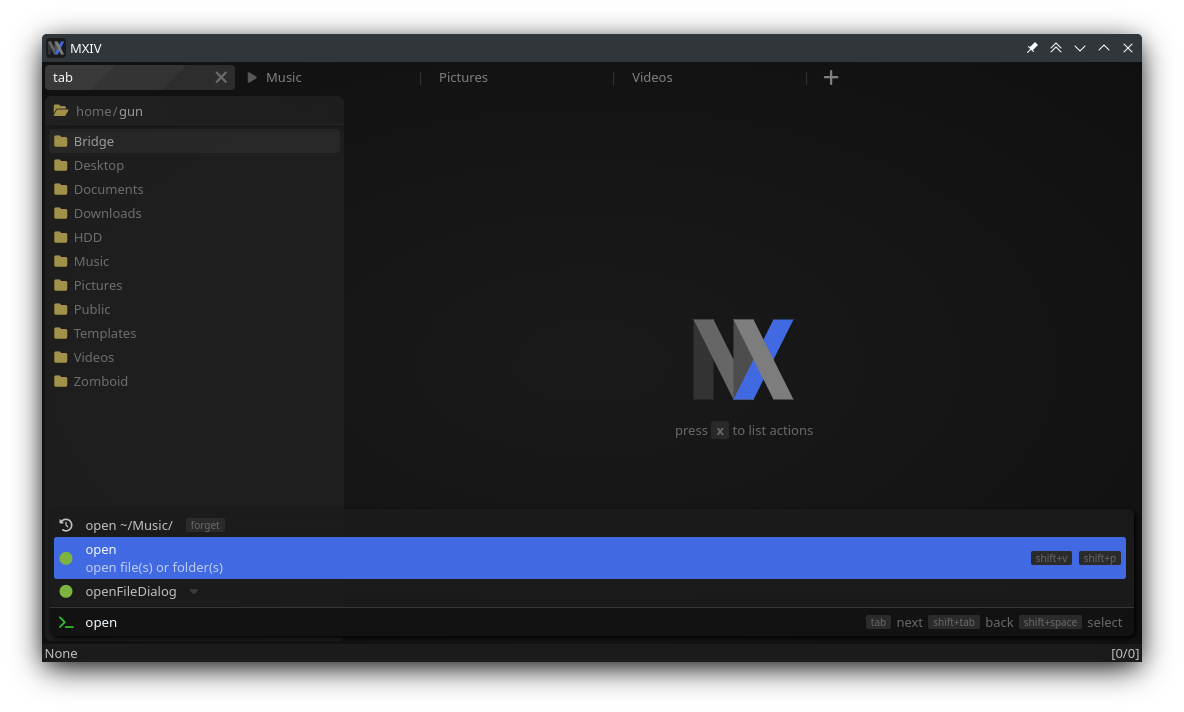
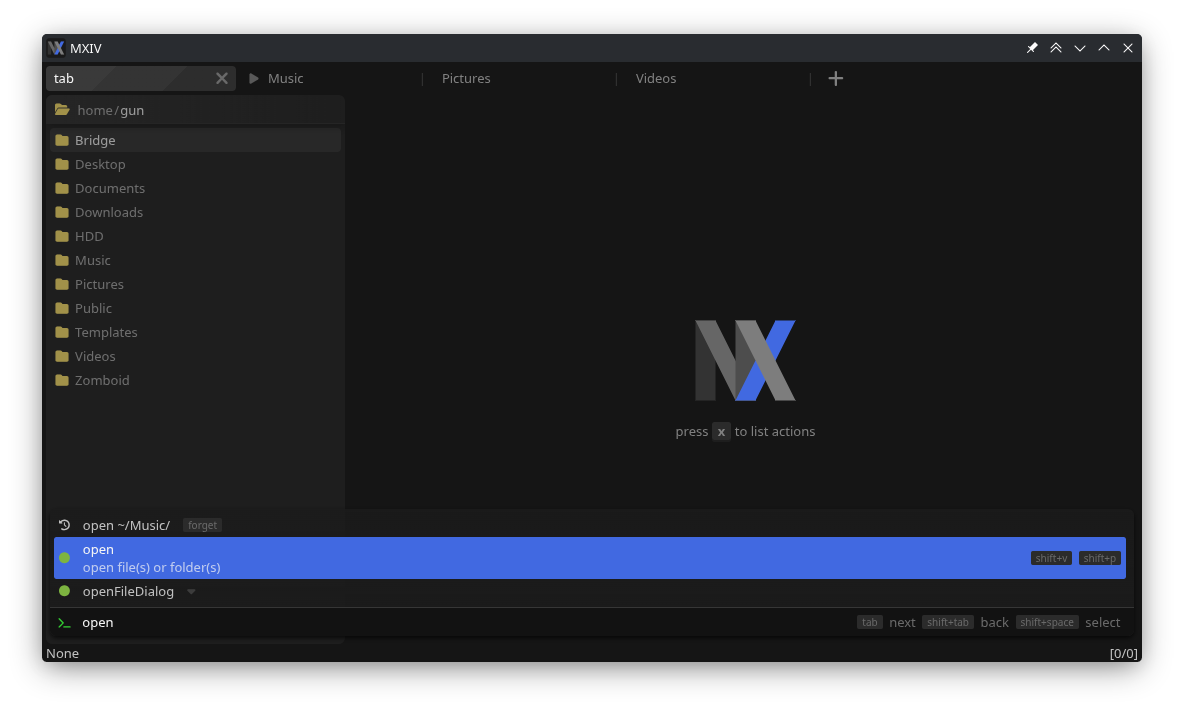
flatten window, status background colors

diff --git a/src/components/statusBar.js b/src/components/statusBar.js
@@ -9,9 +9,9 @@
  */
 
 
-const barElement  = /** @type {HTMLDivElement}   */ (document.getElementById('bar'));
-const nameElement = /** @type {HTMLLabelElement} */ (document.getElementById('barName'));
-const infoElement = /** @type {HTMLLabelElement} */ (document.getElementById('barInfo'));
+const barElement  = /** @type {HTMLDivElement}       */ (document.querySelector('footer'));
+const nameElement = /** @type {HTMLParagraphElement} */ (barElement.querySelector(':first-child'));
+const infoElement = /** @type {HTMLParagraphElement} */ (barElement.querySelector(':last-child'));
 
 /**
  * Application name shown as window suffix.
@@ -28,7 +28,7 @@ let wasVisible = statusVisibility();
  * Either status bar is visible.
  */
 export function statusVisibility() {
-  return barElement.style.fontSize === '';
+  return !barElement.hasAttribute('hidden');
 }
 
 /**
@@ -37,7 +37,7 @@ export function statusVisibility() {
  */
 export function toggleStatus( force = !statusVisibility() ) {
   // animation transition in css
-  barElement.style.fontSize = force ? '' : '0px';
+  barElement.toggleAttribute('hidden', !force);
 }
 
 /**

diff --git a/src/index/index.css b/src/index/index.css
@@ -214,9 +214,14 @@ main {
   min-height: 0px;
   display: flex;
 
-  /* remove explorer top margin when tabs are visible for and even gap */
+  /* remove explorer top margin when tabs are visible */
   header:not([style*="display: none;"]) + & viewer-component::part(explorer) {
     margin-top: 0;
+  }
+
+  /* remove explorer bottom margin when status bar is visible */
+  &:has(+ footer:not([hidden])) viewer-component::part(explorer) {
+    margin-bottom: 0;
   }
 }
 
@@ -477,25 +482,29 @@ action-palette {
   }
 }
 
-#bar {
+footer {
   background: var(--theme-status-bg);
   color: var(--theme-status-fr);
   
   display: flex;
   justify-content: space-between;
   transition: .1s;
-  padding: 0em .2em;
+  padding: 0em var(--small-gap);
   gap: 2em;
 
-  & > * {
+  p {
     overflow: hidden;
     text-overflow: ellipsis;
     white-space: nowrap;
     width: fit-content;
     font-size: inherit;
 
-    &#barInfo {
+    &:last-child {
       min-width: fit-content;
     }
-  } 
+  }
+
+  &[hidden] {
+    font-size: 0px;
+  }
 }

diff --git a/src/index/colors.css b/src/index/colors.css
@@ -20,7 +20,7 @@
    * Dark theme (default).
    */
   @media (prefers-color-scheme: dark) {
-    --theme-main-bg: radial-gradient(#1a1a1a, #101010);
+    --theme-main-bg: #151515;
     --theme-scrollbar-fg: #5f5f5f;
     --theme-scrollbar-bg: #484848;
 
@@ -100,7 +100,7 @@
 
     /* status */
     --theme-status-fr: silver;
-    --theme-status-bg: linear-gradient(90deg, #1b1b1b, transparent);
+    --theme-status-bg: none;
 
     /* notification */
     --theme-notification-bg: whitesmoke;
@@ -120,7 +120,7 @@
    * Light theme overrides.
    */
   @media (prefers-color-scheme: light) {
-    --theme-main-bg: linear-gradient(-90deg, white, silver);
+    --theme-main-bg: #e0e0e0;
     --theme-scrollbar-fg: gray;
     --theme-scrollbar-bg: darkgray;
 
@@ -204,7 +204,7 @@
 
     /* status */
     --theme-status-fr: #242424;
-    --theme-status-bg: white;
+    --theme-status-bg: none;
 
     /* notification */
     --theme-notification-fg: #242424;

diff --git a/src/index/index.html b/src/index/index.html
@@ -255,7 +255,7 @@
       file-explorer {
         min-width: 23em;
         max-width: 23em;
-        transition: .2s, margin-top 0s;
+        transition: .2s, margin-top 0s, margin-bottom .1s;
         margin: var(--small-gap);
         border-radius: .5em;
         background: var(--theme-explorer-bg);
@@ -995,9 +995,9 @@
       </action-palette>
       <div id="notifier"></div>
     </main>
-    <footer id="bar">
-      <div id="barName"></div>
-      <div id="barInfo"></div>
+    <footer>
+      <p></p>
+      <p></p>
     </footer>
   </body>
 
